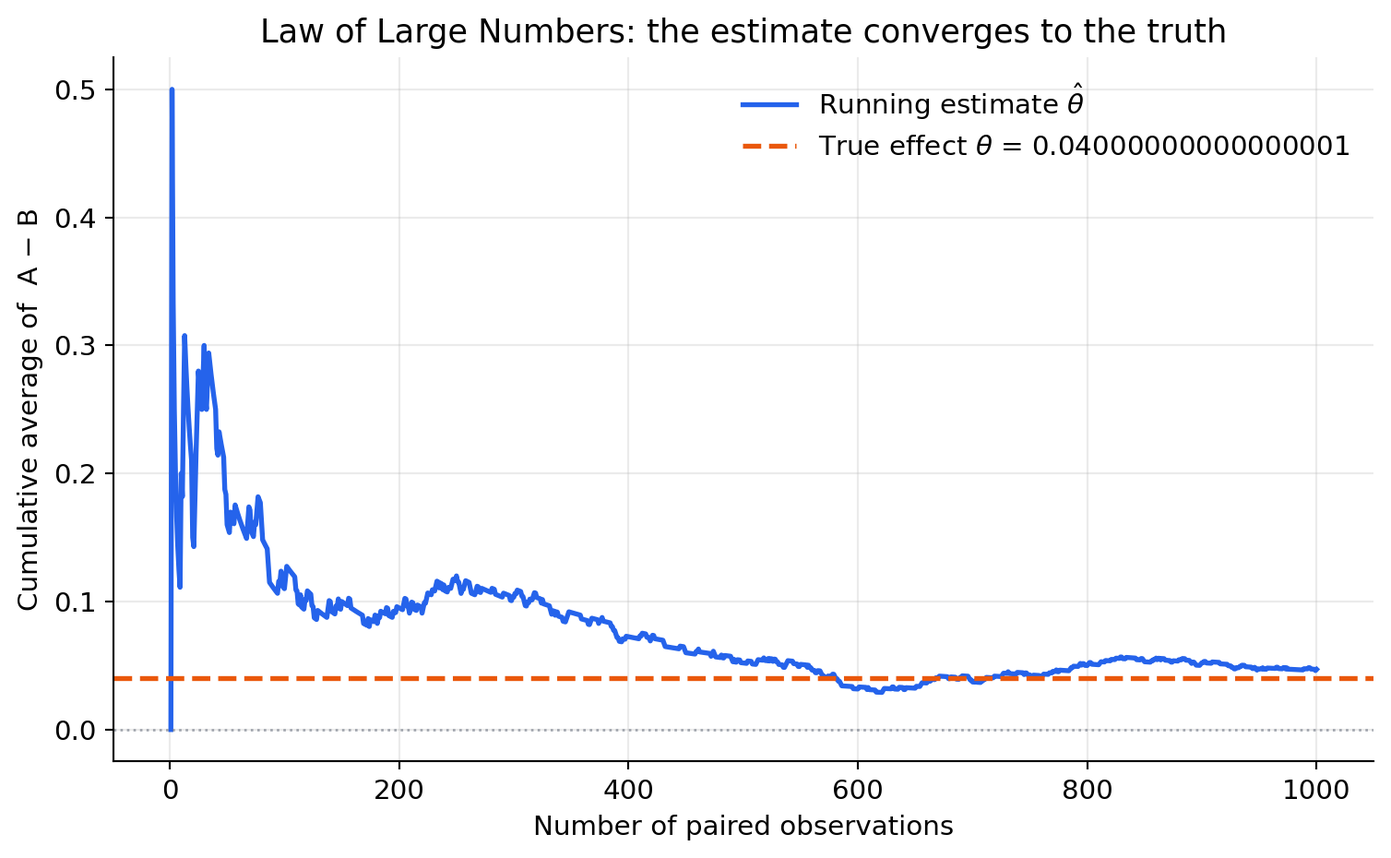
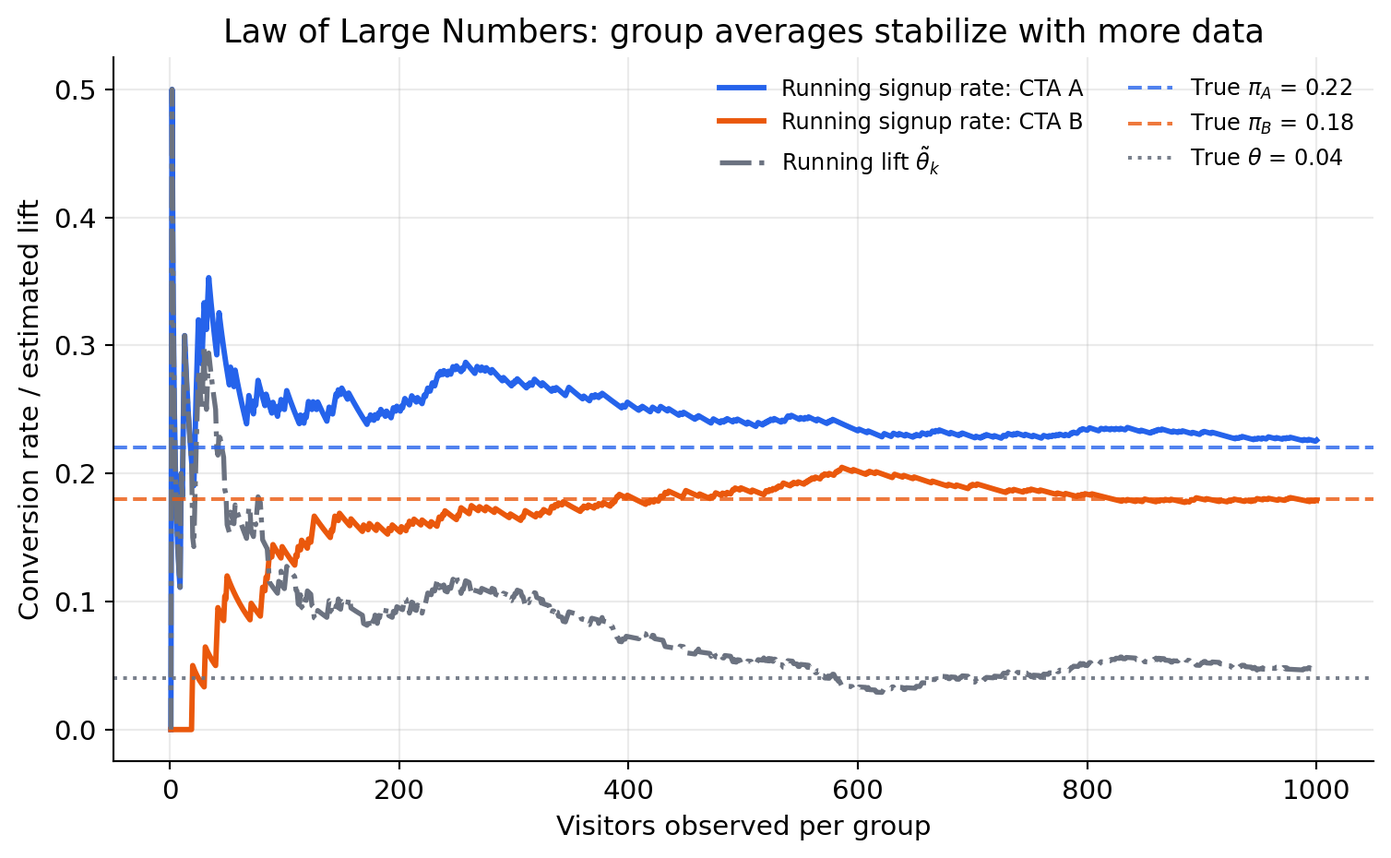
first commit

diff --git a/docs/projects/project1/index.html b/docs/projects/project1/index.html
@@ -198,7 +198,7 @@ window.Quarto = {
   <li><a href="#bootstrap-standard-errors" id="toc-bootstrap-standard-errors" class="nav-link" data-scroll-target="#bootstrap-standard-errors"><span class="header-section-number">5</span> Bootstrap Standard Errors</a></li>
   <li><a href="#the-central-limit-theorem" id="toc-the-central-limit-theorem" class="nav-link" data-scroll-target="#the-central-limit-theorem"><span class="header-section-number">6</span> The Central Limit Theorem</a></li>
   <li><a href="#hypothesis-testing" id="toc-hypothesis-testing" class="nav-link" data-scroll-target="#hypothesis-testing"><span class="header-section-number">7</span> Hypothesis Testing</a></li>
-  <li><a href="#the-t-test-as-a-regression" id="toc-the-t-test-as-a-regression" class="nav-link" data-scroll-target="#the-t-test-as-a-regression"><span class="header-section-number">8</span> The T-Test as a Regression</a></li>
+  <li><a href="#the-ab-test-as-a-regression" id="toc-the-ab-test-as-a-regression" class="nav-link" data-scroll-target="#the-ab-test-as-a-regression"><span class="header-section-number">8</span> The A/B Test as a Regression</a></li>
   <li><a href="#the-problem-with-peeking" id="toc-the-problem-with-peeking" class="nav-link" data-scroll-target="#the-problem-with-peeking"><span class="header-section-number">9</span> The Problem with Peeking</a></li>
   <li><a href="#conclusion" id="toc-conclusion" class="nav-link" data-scroll-target="#conclusion"><span class="header-section-number">10</span> Conclusion</a></li>
   </ul>
@@ -287,33 +287,33 @@ window.Quarto = {
 <style type="text/css">
 </style>
 
-<table id="T_85501" class="caption-top table table-sm table-striped small">
+<table id="T_71c62" class="caption-top table table-sm table-striped small">
 <thead>
 <tr class="header">
-<th id="T_85501_level0_col0" class="col_heading level0 col0" data-quarto-table-cell-role="th">Group</th>
-<th id="T_85501_level0_col1" class="col_heading level0 col1" data-quarto-table-cell-role="th">True signup probability</th>
-<th id="T_85501_level0_col2" class="col_heading level0 col2" data-quarto-table-cell-role="th">Sample size</th>
-<th id="T_85501_level0_col3" class="col_heading level0 col3" data-quarto-table-cell-role="th">Observed signup rate</th>
+<th id="T_71c62_level0_col0" class="col_heading level0 col0" data-quarto-table-cell-role="th">Group</th>
+<th id="T_71c62_level0_col1" class="col_heading level0 col1" data-quarto-table-cell-role="th">True signup probability</th>
+<th id="T_71c62_level0_col2" class="col_heading level0 col2" data-quarto-table-cell-role="th">Sample size</th>
+<th id="T_71c62_level0_col3" class="col_heading level0 col3" data-quarto-table-cell-role="th">Observed signup rate</th>
 </tr>
 </thead>
 <tbody>
 <tr class="odd">
-<td id="T_85501_row0_col0" class="data row0 col0">CTA A</td>
-<td id="T_85501_row0_col1" class="data row0 col1">22.0%</td>
-<td id="T_85501_row0_col2" class="data row0 col2">1000</td>
-<td id="T_85501_row0_col3" class="data row0 col3">22.6%</td>
+<td id="T_71c62_row0_col0" class="data row0 col0">CTA A</td>
+<td id="T_71c62_row0_col1" class="data row0 col1">22.0%</td>
+<td id="T_71c62_row0_col2" class="data row0 col2">1000</td>
+<td id="T_71c62_row0_col3" class="data row0 col3">22.6%</td>
 </tr>
 <tr class="even">
-<td id="T_85501_row1_col0" class="data row1 col0">CTA B</td>
-<td id="T_85501_row1_col1" class="data row1 col1">18.0%</td>
-<td id="T_85501_row1_col2" class="data row1 col2">1000</td>
-<td id="T_85501_row1_col3" class="data row1 col3">17.9%</td>
+<td id="T_71c62_row1_col0" class="data row1 col0">CTA B</td>
+<td id="T_71c62_row1_col1" class="data row1 col1">18.0%</td>
+<td id="T_71c62_row1_col2" class="data row1 col2">1000</td>
+<td id="T_71c62_row1_col3" class="data row1 col3">17.9%</td>
 </tr>
 </tbody>
 </table>
 </div>
 </div>
-<div id="9b61beb6" class="cell" data-execution_count="3">
+<div id="09196829" class="cell" data-execution_count="3">
 <div class="cell-output cell-output-display cell-output-markdown">
 <p>In this simulated experiment, CTA A converted <strong>22.6%</strong> of visitors and CTA B converted <strong>17.9%</strong>. The estimated lift was <strong>4.7%</strong>, which is close to the true effect of <strong>4.0%</strong> but not identical to it—exactly what we should expect from random sampling.</p>
 </div>
@@ -321,10 +321,15 @@ window.Quarto = {
 </section>
 <section id="the-law-of-large-numbers" class="level2" data-number="4">
 <h2 data-number="4" class="anchored" data-anchor-id="the-law-of-large-numbers"><span class="header-section-number">4</span> The Law of Large Numbers</h2>
-<p>The <strong>Law of Large Numbers (LLN)</strong> says that as the sample size grows, the sample mean converges to the population mean. In the A/B testing setting, that is what makes <span class="math inline">\(\hat\theta = \bar X_A - \bar X_B\)</span> a sensible estimator: with enough observations, the difference in sample averages should settle down near the true difference in conversion rates.</p>
-<p>To make that concrete, I compute the element-wise differences between the simulated CTA A and CTA B outcomes and then track their cumulative average after 1 observation, 2 observations, and so on up to 1,000.</p>
+<p>The <strong>Law of Large Numbers (LLN)</strong> says that as the sample size grows, the sample mean converges to the population mean. In the A/B testing setting, that means the cumulative conversion rate within each group should settle down near its true probability, and the difference between those cumulative rates should settle down near the true treatment effect.</p>
+<p>To show that, I track the running conversion rate for CTA A and CTA B separately. After the first <span class="math inline">\(k\)</span> visitors in each group, the running treatment effect is just the difference between the two cumulative sample conversion rates,</p>
+<p><span class="math display">\[
+\hat\theta_k = \left(\frac{1}{k}\sum_{i=1}^k X_{Ai}\right) - \left(\frac{1}{k}\sum_{i=1}^k X_{Bi}\right).
+\]</span></p>
 <div id="lln-code" class="cell" data-execution_count="4">
-<div class="code-copy-outer-scaffold"><div class="sourceCode cell-code" id="cb2"><pre class="sourceCode python code-with-copy"><code class="sourceCode python"><span id="cb2-1"><a href="#cb2-1" aria-hidden="true" tabindex="-1"></a>running_mean <span class="op">=</span> np.cumsum(cta_a <span class="op">-</span> cta_b) <span class="op">/</span> np.arange(<span class="dv">1</span>, n <span class="op">+</span> <span class="dv">1</span>)</span></code></pre></div><button title="Copy to Clipboard" class="code-copy-button"><i class="bi"></i></button></div>
+<div class="code-copy-outer-scaffold"><div class="sourceCode cell-code" id="cb2"><pre class="sourceCode python code-with-copy"><code class="sourceCode python"><span id="cb2-1"><a href="#cb2-1" aria-hidden="true" tabindex="-1"></a>running_pi_A <span class="op">=</span> np.cumsum(cta_a) <span class="op">/</span> np.arange(<span class="dv">1</span>, n <span class="op">+</span> <span class="dv">1</span>)</span>
+<span id="cb2-2"><a href="#cb2-2" aria-hidden="true" tabindex="-1"></a>running_pi_B <span class="op">=</span> np.cumsum(cta_b) <span class="op">/</span> np.arange(<span class="dv">1</span>, n <span class="op">+</span> <span class="dv">1</span>)</span>
+<span id="cb2-3"><a href="#cb2-3" aria-hidden="true" tabindex="-1"></a>running_theta <span class="op">=</span> running_pi_A <span class="op">-</span> running_pi_B</span></code></pre></div><button title="Copy to Clipboard" class="code-copy-button"><i class="bi"></i></button></div>
 </div>
 <div id="cell-lln-plot" class="cell" data-execution_count="5">
 <div class="cell-output cell-output-display">
@@ -335,8 +340,8 @@ window.Quarto = {
 </div>
 </div>
 </div>
-<p>At the beginning of the plot, the running average jumps around dramatically because a handful of sign-ups or non-sign-ups can swing the estimate substantially. As the sample grows, that volatility shrinks and the line stabilizes near the true effect of 0.04. The lesson is not that large samples eliminate randomness—they do not—but that they make randomness less important relative to the signal we are trying to measure.</p>
-<p>This is the first major promise of frequentist inference: repeated sampling gives us a principled way to think about how close our estimator should be to the truth.</p>
+<p>At the beginning of the experiment, the running rates move around a lot because a few extra sign-ups can change the estimate substantially. As more visitors arrive, both group averages settle down: CTA A stabilizes near 0.22, CTA B stabilizes near 0.18, and their difference settles near the true lift of 0.04. That is exactly the LLN in action.</p>
+<p>This is the first major promise of frequentist inference: repeated sampling gives us a principled way to think about how close our estimators should be to the truth.</p>
 </section>
 <section id="bootstrap-standard-errors" class="level2" data-number="5">
 <h2 data-number="5" class="anchored" data-anchor-id="bootstrap-standard-errors"><span class="header-section-number">5</span> Bootstrap Standard Errors</h2>
@@ -375,39 +380,39 @@ window.Quarto = {
 <style type="text/css">
 </style>
 
-<table id="T_c3f07" class="caption-top table table-sm table-striped small">
+<table id="T_728b4" class="caption-top table table-sm table-striped small">
 <thead>
 <tr class="header">
-<th id="T_c3f07_level0_col0" class="col_heading level0 col0" data-quarto-table-cell-role="th">Quantity</th>
-<th id="T_c3f07_level0_col1" class="col_heading level0 col1" data-quarto-table-cell-role="th">Value</th>
+<th id="T_728b4_level0_col0" class="col_heading level0 col0" data-quarto-table-cell-role="th">Quantity</th>
+<th id="T_728b4_level0_col1" class="col_heading level0 col1" data-quarto-table-cell-role="th">Value</th>
 </tr>
 </thead>
 <tbody>
 <tr class="odd">
-<td id="T_c3f07_row0_col0" class="data row0 col0">Observed lift ($\hat{\theta}$)</td>
-<td id="T_c3f07_row0_col1" class="data row0 col1">0.0470</td>
+<td id="T_728b4_row0_col0" class="data row0 col0">Observed lift ($\hat{\theta}$)</td>
+<td id="T_728b4_row0_col1" class="data row0 col1">0.0470</td>
 </tr>
 <tr class="even">
-<td id="T_c3f07_row1_col0" class="data row1 col0">Bootstrap standard error</td>
-<td id="T_c3f07_row1_col1" class="data row1 col1">0.0179</td>
+<td id="T_728b4_row1_col0" class="data row1 col0">Bootstrap standard error</td>
+<td id="T_728b4_row1_col1" class="data row1 col1">0.0179</td>
 </tr>
 <tr class="odd">
-<td id="T_c3f07_row2_col0" class="data row2 col0">Analytical standard error</td>
-<td id="T_c3f07_row2_col1" class="data row2 col1">0.0179</td>
+<td id="T_728b4_row2_col0" class="data row2 col0">Analytical standard error</td>
+<td id="T_728b4_row2_col1" class="data row2 col1">0.0179</td>
 </tr>
 <tr class="even">
-<td id="T_c3f07_row3_col0" class="data row3 col0">95% CI lower bound</td>
-<td id="T_c3f07_row3_col1" class="data row3 col1">0.0120</td>
+<td id="T_728b4_row3_col0" class="data row3 col0">95% CI lower bound</td>
+<td id="T_728b4_row3_col1" class="data row3 col1">0.0120</td>
 </tr>
 <tr class="odd">
-<td id="T_c3f07_row4_col0" class="data row4 col0">95% CI upper bound</td>
-<td id="T_c3f07_row4_col1" class="data row4 col1">0.0820</td>
+<td id="T_728b4_row4_col0" class="data row4 col0">95% CI upper bound</td>
+<td id="T_728b4_row4_col1" class="data row4 col1">0.0820</td>
 </tr>
 </tbody>
 </table>
 </div>
 </div>
-<div id="cf05f2fc" class="cell" data-execution_count="9">
+<div id="aa7ab21c" class="cell" data-execution_count="9">
 <div class="cell-output cell-output-display cell-output-markdown">
 <p>The bootstrap standard error is <strong>0.0179</strong>, while the analytical standard error is <strong>0.0179</strong>. They are very close, which is reassuring: the resampling approach and the Bernoulli formula are telling essentially the same story about uncertainty. Using the bootstrap standard error, the 95% confidence interval for the treatment effect is <strong>(0.0120, 0.0820)</strong>. In practical terms, this interval says that the data are consistent with CTA A improving the sign-up rate by somewhere between <strong>1.2%</strong> and <strong>8.2%</strong>.</p>
 </div>
@@ -439,7 +444,7 @@ H_0: \theta = 0
 \qquad \text{versus} \qquad
 H_1: \theta \neq 0.
 \]</span></p>
-<p>Under the null, the two CTAs have the same true sign-up rate. To evaluate that claim, we standardize our estimate by dividing it by its standard error:</p>
+<p>Under the null, the two CTAs have the same true sign-up rate. To evaluate that claim, I use a large-sample Wald-style z-test, which standardizes the estimated lift by its estimated standard error:</p>
 <p><span class="math display">\[
 z = \frac{\hat\theta - 0}{SE(\hat\theta)}.
 \]</span></p>
@@ -449,48 +454,49 @@ z = \frac{\hat\theta - 0}{SE(\hat\theta)}.
 <li>Under <span class="math inline">\(H_0\)</span>, that approximate Normal distribution is centered at 0.</li>
 <li>Dividing by the standard error converts the estimate into a unit-free quantity that is approximately standard Normal under the null, which lets us compute a p-value.</li>
 </ol>
+<p>In this post I estimate that standard error directly from the two observed Bernoulli samples. That is slightly different from the pooled standard error sometimes used in an introductory two-proportion z-test, but the logic is the same: in a large sample, both approaches lead to essentially the same conclusion here.</p>
 <p>This is often casually called a “t-test,” but in this Bernoulli setting the label is slightly misleading. The classical t-statistic has an exact t-distribution when the data are Normally distributed and the variance is estimated. Here the raw data are binary, not Normal, so there is no exact t-distribution result to lean on. What justifies the test is the CLT, which makes the statistic approximately Normal in large samples. In practice, once the sample is large, the difference between a t reference distribution and a standard Normal reference distribution is negligible.</p>
 <div id="cell-hypothesis-results" class="cell" data-execution_count="11">
 <div id="hypothesis-results" class="cell-output cell-output-display" data-execution_count="11">
 <style type="text/css">
 </style>
 
-<table id="T_e1f02" class="caption-top table table-sm table-striped small">
+<table id="T_8c16c" class="caption-top table table-sm table-striped small">
 <thead>
 <tr class="header">
-<th id="T_e1f02_level0_col0" class="col_heading level0 col0" data-quarto-table-cell-role="th">Statistic</th>
-<th id="T_e1f02_level0_col1" class="col_heading level0 col1" data-quarto-table-cell-role="th">Value</th>
+<th id="T_8c16c_level0_col0" class="col_heading level0 col0" data-quarto-table-cell-role="th">Statistic</th>
+<th id="T_8c16c_level0_col1" class="col_heading level0 col1" data-quarto-table-cell-role="th">Value</th>
 </tr>
 </thead>
 <tbody>
 <tr class="odd">
-<td id="T_e1f02_row0_col0" class="data row0 col0">Estimated lift</td>
-<td id="T_e1f02_row0_col1" class="data row0 col1">0.0470</td>
+<td id="T_8c16c_row0_col0" class="data row0 col0">Estimated lift</td>
+<td id="T_8c16c_row0_col1" class="data row0 col1">0.0470</td>
 </tr>
 <tr class="even">
-<td id="T_e1f02_row1_col0" class="data row1 col0">Standard error</td>
-<td id="T_e1f02_row1_col1" class="data row1 col1">0.0179</td>
+<td id="T_8c16c_row1_col0" class="data row1 col0">Standard error</td>
+<td id="T_8c16c_row1_col1" class="data row1 col1">0.0179</td>
 </tr>
 <tr class="odd">
-<td id="T_e1f02_row2_col0" class="data row2 col0">z-statistic</td>
-<td id="T_e1f02_row2_col1" class="data row2 col1">2.6197</td>
+<td id="T_8c16c_row2_col0" class="data row2 col0">z-statistic</td>
+<td id="T_8c16c_row2_col1" class="data row2 col1">2.6197</td>
 </tr>
 <tr class="even">
-<td id="T_e1f02_row3_col0" class="data row3 col0">p-value</td>
-<td id="T_e1f02_row3_col1" class="data row3 col1">0.0088</td>
+<td id="T_8c16c_row3_col0" class="data row3 col0">p-value</td>
+<td id="T_8c16c_row3_col1" class="data row3 col1">0.0088</td>
 </tr>
 </tbody>
 </table>
 </div>
 </div>
-<div id="e336ce0d" class="cell" data-execution_count="12">
+<div id="5f50693a" class="cell" data-execution_count="12">
 <div class="cell-output cell-output-display cell-output-markdown">
 <p>The test statistic is <strong>2.62</strong>, which corresponds to a two-sided p-value of <strong>0.0088</strong>. At the conventional 5% level, we therefore <strong>reject</strong> the null hypothesis of no effect. In plain English: this simulated dataset provides fairly strong evidence that CTA A outperforms CTA B, and the estimated advantage is about <strong>4.7%</strong>.</p>
 </div>
 </div>
 </section>
-<section id="the-t-test-as-a-regression" class="level2" data-number="8">
-<h2 data-number="8" class="anchored" data-anchor-id="the-t-test-as-a-regression"><span class="header-section-number">8</span> The T-Test as a Regression</h2>
+<section id="the-ab-test-as-a-regression" class="level2" data-number="8">
+<h2 data-number="8" class="anchored" data-anchor-id="the-ab-test-as-a-regression"><span class="header-section-number">8</span> The A/B Test as a Regression</h2>
 <p>The same comparison can be written as a simple regression. Stack the two groups into one dataset with an outcome variable <span class="math inline">\(Y_i\)</span> that equals 1 if visitor <span class="math inline">\(i\)</span> signs up and 0 otherwise, and a treatment indicator <span class="math inline">\(D_i\)</span> that equals 1 if the visitor saw CTA A and 0 if they saw CTA B. Then estimate</p>
 <p><span class="math display">\[
 Y_i = \beta_0 + \beta_1 D_i + \varepsilon_i.
@@ -506,30 +512,30 @@ Y_i = \beta_0 + \beta_1 D_i + \varepsilon_i.
 <style type="text/css">
 </style>
 
-<table id="T_7fd80" class="caption-top table table-sm table-striped small">
+<table id="T_03e77" class="caption-top table table-sm table-striped small">
 <thead>
 <tr class="header">
-<th id="T_7fd80_level0_col0" class="col_heading level0 col0" data-quarto-table-cell-role="th">Term</th>
-<th id="T_7fd80_level0_col1" class="col_heading level0 col1" data-quarto-table-cell-role="th">Estimate</th>
-<th id="T_7fd80_level0_col2" class="col_heading level0 col2" data-quarto-table-cell-role="th">Std. Error</th>
-<th id="T_7fd80_level0_col3" class="col_heading level0 col3" data-quarto-table-cell-role="th">t-statistic</th>
-<th id="T_7fd80_level0_col4" class="col_heading level0 col4" data-quarto-table-cell-role="th">p-value</th>
+<th id="T_03e77_level0_col0" class="col_heading level0 col0" data-quarto-table-cell-role="th">Term</th>
+<th id="T_03e77_level0_col1" class="col_heading level0 col1" data-quarto-table-cell-role="th">Estimate</th>
+<th id="T_03e77_level0_col2" class="col_heading level0 col2" data-quarto-table-cell-role="th">Std. Error</th>
+<th id="T_03e77_level0_col3" class="col_heading level0 col3" data-quarto-table-cell-role="th">t-statistic</th>
+<th id="T_03e77_level0_col4" class="col_heading level0 col4" data-quarto-table-cell-role="th">p-value</th>
 </tr>
 </thead>
 <tbody>
 <tr class="odd">
-<td id="T_7fd80_row0_col0" class="data row0 col0">Intercept (CTA B mean)</td>
-<td id="T_7fd80_row0_col1" class="data row0 col1">0.1790</td>
-<td id="T_7fd80_row0_col2" class="data row0 col2">0.0127</td>
-<td id="T_7fd80_row0_col3" class="data row0 col3">14.1027</td>
-<td id="T_7fd80_row0_col4" class="data row0 col4">0.0000</td>
+<td id="T_03e77_row0_col0" class="data row0 col0">Intercept (CTA B mean)</td>
+<td id="T_03e77_row0_col1" class="data row0 col1">0.1790</td>
+<td id="T_03e77_row0_col2" class="data row0 col2">0.0127</td>
+<td id="T_03e77_row0_col3" class="data row0 col3">14.1027</td>
+<td id="T_03e77_row0_col4" class="data row0 col4">0.0000</td>
 </tr>
 <tr class="even">
-<td id="T_7fd80_row1_col0" class="data row1 col0">CTA A indicator</td>
-<td id="T_7fd80_row1_col1" class="data row1 col1">0.0470</td>
-<td id="T_7fd80_row1_col2" class="data row1 col2">0.0180</td>
-<td id="T_7fd80_row1_col3" class="data row1 col3">2.6184</td>
-<td id="T_7fd80_row1_col4" class="data row1 col4">0.0089</td>
+<td id="T_03e77_row1_col0" class="data row1 col0">CTA A indicator</td>
+<td id="T_03e77_row1_col1" class="data row1 col1">0.0470</td>
+<td id="T_03e77_row1_col2" class="data row1 col2">0.0180</td>
+<td id="T_03e77_row1_col3" class="data row1 col3">2.6184</td>
+<td id="T_03e77_row1_col4" class="data row1 col4">0.0089</td>
 </tr>
 </tbody>
 </table>
@@ -540,36 +546,36 @@ Y_i = \beta_0 + \beta_1 D_i + \varepsilon_i.
 <style type="text/css">
 </style>
 
-<table id="T_3cda6" class="caption-top table table-sm table-striped small">
+<table id="T_6d7ba" class="caption-top table table-sm table-striped small">
 <thead>
 <tr class="header">
-<th id="T_3cda6_level0_col0" class="col_heading level0 col0" data-quarto-table-cell-role="th">Approach</th>
-<th id="T_3cda6_level0_col1" class="col_heading level0 col1" data-quarto-table-cell-role="th">Estimate</th>
-<th id="T_3cda6_level0_col2" class="col_heading level0 col2" data-quarto-table-cell-role="th">SE</th>
-<th id="T_3cda6_level0_col3" class="col_heading level0 col3" data-quarto-table-cell-role="th">Test statistic</th>
-<th id="T_3cda6_level0_col4" class="col_heading level0 col4" data-quarto-table-cell-role="th">p-value</th>
+<th id="T_6d7ba_level0_col0" class="col_heading level0 col0" data-quarto-table-cell-role="th">Approach</th>
+<th id="T_6d7ba_level0_col1" class="col_heading level0 col1" data-quarto-table-cell-role="th">Estimate</th>
+<th id="T_6d7ba_level0_col2" class="col_heading level0 col2" data-quarto-table-cell-role="th">SE</th>
+<th id="T_6d7ba_level0_col3" class="col_heading level0 col3" data-quarto-table-cell-role="th">Test statistic</th>
+<th id="T_6d7ba_level0_col4" class="col_heading level0 col4" data-quarto-table-cell-role="th">p-value</th>
 </tr>
 </thead>
 <tbody>
 <tr class="odd">
-<td id="T_3cda6_row0_col0" class="data row0 col0">Two-sample test</td>
-<td id="T_3cda6_row0_col1" class="data row0 col1">0.0470</td>
-<td id="T_3cda6_row0_col2" class="data row0 col2">0.0179</td>
-<td id="T_3cda6_row0_col3" class="data row0 col3">2.6197</td>
-<td id="T_3cda6_row0_col4" class="data row0 col4">0.0088</td>
+<td id="T_6d7ba_row0_col0" class="data row0 col0">Two-sample test</td>
+<td id="T_6d7ba_row0_col1" class="data row0 col1">0.0470</td>
+<td id="T_6d7ba_row0_col2" class="data row0 col2">0.0179</td>
+<td id="T_6d7ba_row0_col3" class="data row0 col3">2.6197</td>
+<td id="T_6d7ba_row0_col4" class="data row0 col4">0.0088</td>
 </tr>
 <tr class="even">
-<td id="T_3cda6_row1_col0" class="data row1 col0">Regression slope</td>
-<td id="T_3cda6_row1_col1" class="data row1 col1">0.0470</td>
-<td id="T_3cda6_row1_col2" class="data row1 col2">0.0180</td>
-<td id="T_3cda6_row1_col3" class="data row1 col3">2.6184</td>
-<td id="T_3cda6_row1_col4" class="data row1 col4">0.0089</td>
+<td id="T_6d7ba_row1_col0" class="data row1 col0">Regression slope</td>
+<td id="T_6d7ba_row1_col1" class="data row1 col1">0.0470</td>
+<td id="T_6d7ba_row1_col2" class="data row1 col2">0.0180</td>
+<td id="T_6d7ba_row1_col3" class="data row1 col3">2.6184</td>
+<td id="T_6d7ba_row1_col4" class="data row1 col4">0.0089</td>
 </tr>
 </tbody>
 </table>
 </div>
 </div>
-<p>The point estimates are identical, and the test statistics and p-values are essentially the same. Any small difference in the standard errors comes from the exact variance formula being used. In the simple two-group case, the regression is not adding new information—but it <em>is</em> giving us a more general language.</p>
+<p>The point estimates are identical, and the test statistics and p-values are essentially the same. Any small difference in the standard errors comes from the exact variance formula being used. In this binary-outcome setting, OLS is acting as a simple linear probability model, so the regression is not adding new information in the two-group case—but it <em>is</em> giving us a more general language.</p>
 <p>That matters because real experiments rarely stay this simple. Once you understand the regression framing, it becomes natural to add customer covariates, interactions, multiple treatment arms, or fixed effects while preserving the same basic logic of causal comparison.</p>
 </section>
 <section id="the-problem-with-peeking" class="level2" data-number="9">
@@ -583,21 +589,21 @@ Y_i = \beta_0 + \beta_1 D_i + \varepsilon_i.
 <style type="text/css">
 </style>
 
-<table id="T_6afea" class="caption-top table table-sm table-striped small">
+<table id="T_96c20" class="caption-top table table-sm table-striped small">
 <thead>
 <tr class="header">
-<th id="T_6afea_level0_col0" class="col_heading level0 col0" data-quarto-table-cell-role="th">Procedure</th>
-<th id="T_6afea_level0_col1" class="col_heading level0 col1" data-quarto-table-cell-role="th">Empirical false positive rate</th>
+<th id="T_96c20_level0_col0" class="col_heading level0 col0" data-quarto-table-cell-role="th">Procedure</th>
+<th id="T_96c20_level0_col1" class="col_heading level0 col1" data-quarto-table-cell-role="th">Empirical false positive rate</th>
 </tr>
 </thead>
 <tbody>
 <tr class="odd">
-<td id="T_6afea_row0_col0" class="data row0 col0">Single look at n = 1,000</td>
-<td id="T_6afea_row0_col1" class="data row0 col1">5.5%</td>
+<td id="T_96c20_row0_col0" class="data row0 col0">Single look at n = 1,000</td>
+<td id="T_96c20_row0_col1" class="data row0 col1">5.5%</td>
 </tr>
 <tr class="even">
-<td id="T_6afea_row1_col0" class="data row1 col0">Peek every 100 visitors (10 looks)</td>
-<td id="T_6afea_row1_col1" class="data row1 col1">19.1%</td>
+<td id="T_96c20_row1_col0" class="data row1 col0">Peek every 100 visitors (10 looks)</td>
+<td id="T_96c20_row1_col1" class="data row1 col1">19.1%</td>
 </tr>
 </tbody>
 </table>
@@ -612,7 +618,7 @@ Y_i = \beta_0 + \beta_1 D_i + \varepsilon_i.
 </div>
 </div>
 </div>
-<div id="e5629db6" class="cell" data-execution_count="17">
+<div id="0e723c83" class="cell" data-execution_count="17">
 <div class="cell-output cell-output-display cell-output-markdown">
 <p>With one pre-specified look at the end of the experiment, the empirical false positive rate is about <strong>5.5%</strong>—right at the nominal 5%. But with repeated peeking, the false positive rate climbs to about <strong>19.1%</strong>. The left-hand chart makes this even clearer: the contamination does not arrive all at once; it accumulates with every additional look, so stopping early actually makes the problem worse, not better. An apparently harmless habit of checking results early roughly <strong>3×</strong> the chance of declaring a winner when no real difference exists.</p>
 </div>

diff --git a/docs/projects.html b/docs/projects.html
@@ -208,7 +208,7 @@ window.Quarto = {
 
 <div class="quarto-listing quarto-listing-container-grid" id="listing-listing">
 <div class="list grid quarto-listing-cols-3">
-<div class="g-col-1" data-index="0" data-listing-date-sort="1776236400000" data-listing-file-modified-sort="1776285902607" data-listing-date-modified-sort="NaN" data-listing-reading-time-sort="20" data-listing-word-count-sort="3849">
+<div class="g-col-1" data-index="0" data-listing-date-sort="1776236400000" data-listing-file-modified-sort="1776318438762" data-listing-date-modified-sort="NaN" data-listing-reading-time-sort="20" data-listing-word-count-sort="3944">
 <a href="./projects/project1/index.html" class="quarto-grid-link">
 <div class="quarto-grid-item card h-100 card-left">
 <p class="card-img-top"><img src="projects/project1/index_files/figure-html/lln-plot-output-1.png" style="height: 150px;"  class="thumbnail-image card-img"/></p>
